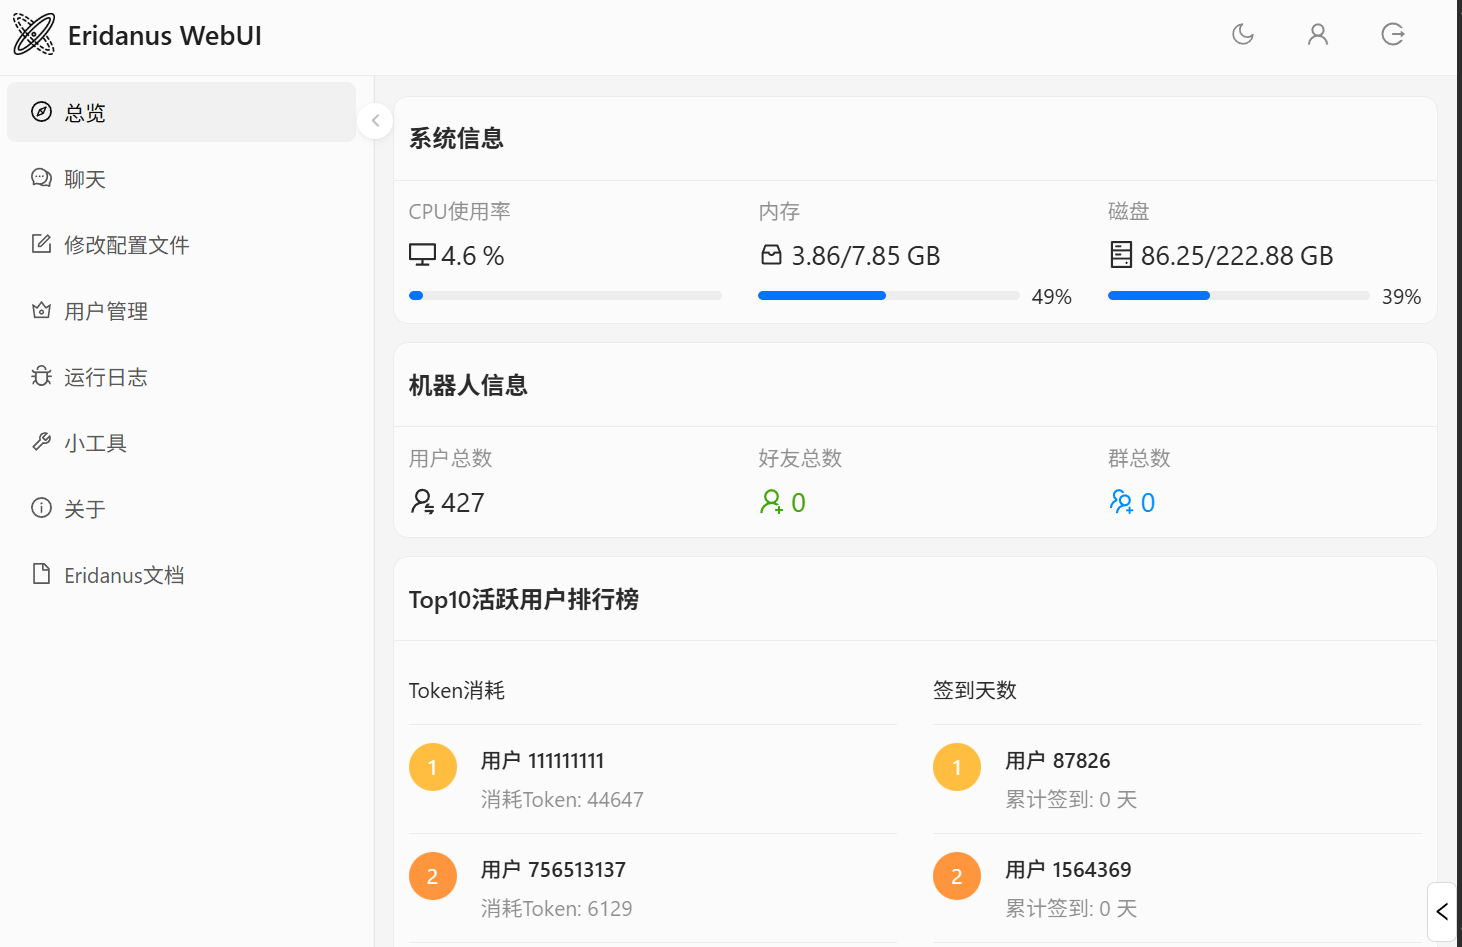
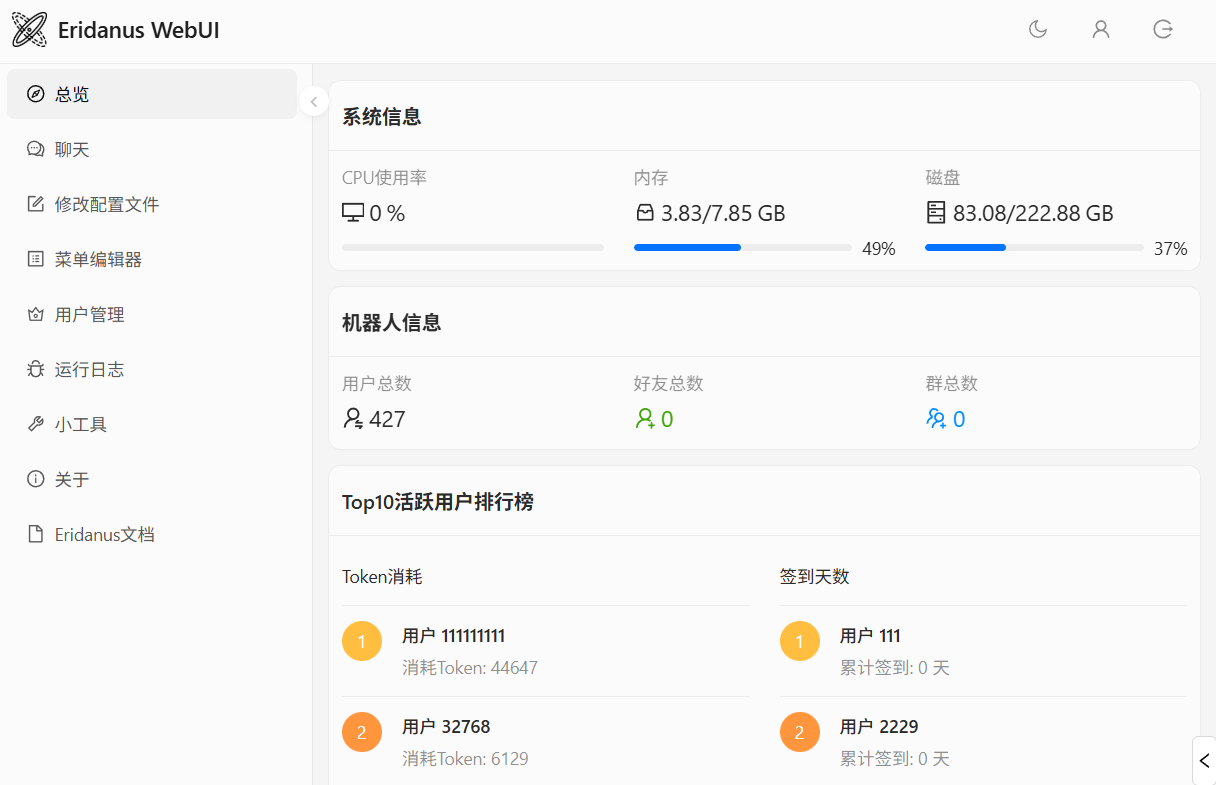
更新webui

diff --git a/configuration/webui/介绍.md b/configuration/webui/介绍.md
@@ -13,6 +13,7 @@
 - 总览：主机性能信息，机器人信息，用户排行榜。
 - [聊天](#聊天)：与机器人进行对话。
 - [修改配置文件](#修改配置文件)：修改Eridanus的配置。
+- [菜单编辑器](#菜单编辑器)：自定义机器人的菜单。**这是一个临时功能，在菜单生成逻辑重做后会被移除。**
 - [用户管理](#用户管理)：管理机器人的用户，可查看或修改用户信息。
 - [运行日志](#运行日志)：查看Eridanus的运行日志。
 - 小工具：重启机器人、导入导出配置文件。
@@ -32,11 +33,22 @@
 ![music](/webui/music.png)
 
 ### 修改配置文件
-下拉框选择要修改的配置项。修改完毕后，请记得点击`确认修改`按钮，配置文件才会被保存。
+下拉框选择要修改的配置项。修改完毕后，请记得点击`保存配置`按钮，配置文件才会被保存。
 
 点击`搜索配置项`按钮，在弹出的对话框输入关键词，即可搜索相关配置项。暂时只支持搜索键名。
 
-![config](/webui/configedit.png)
+### 菜单编辑器
+如果您打开菜单编辑器，发现内容全部为空行，请先执行/remenu指令生成新的菜单配置文件。随后刷新页面，即可正常编辑。
+
+文本框内，可以在顶部点击插入`[title][/title]`和`[des][/des]`标签，分别表示菜单标题和菜单项描述。菜单项不需要标签包裹。
+
+粗略的预览在每一页的末尾。
+
+修改完成后，点击`保存菜单`按钮即可保存。随后再次执行/remenu，生成新菜单。
+
+**注意：使用脚本更新Eridanus，将会覆盖菜单为仓库中的最新版本！！！**
+
+![menu](/webui/menuedit.png)
 ### 用户管理
 这里会列出所有添加到数据库的用户。默认会添加机器人所在群聊有发言的用户，以及私聊用户。
 
@@ -49,7 +61,7 @@
 ![user](/webui/usermgr.png)
 
 ### 运行日志
-默认应用筛选最近半小时，等级为ERROR的日志。
+默认应用筛选最近半小时，等级为`ERROR`的日志。
 
 - 下拉框中可以选择日志日期。
 - 刷新日志：可以获取最新的日志内容。暂未实现实时日志功能，需要手动刷新。
